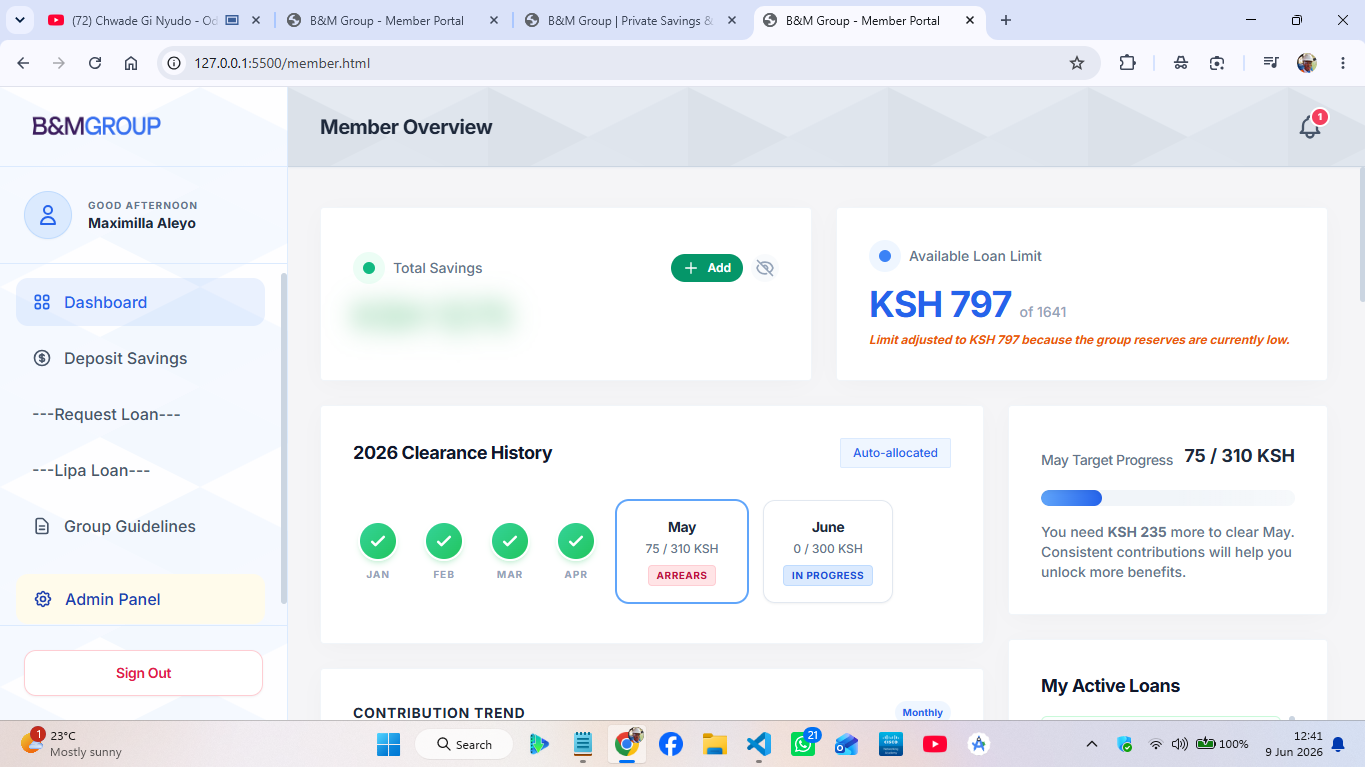
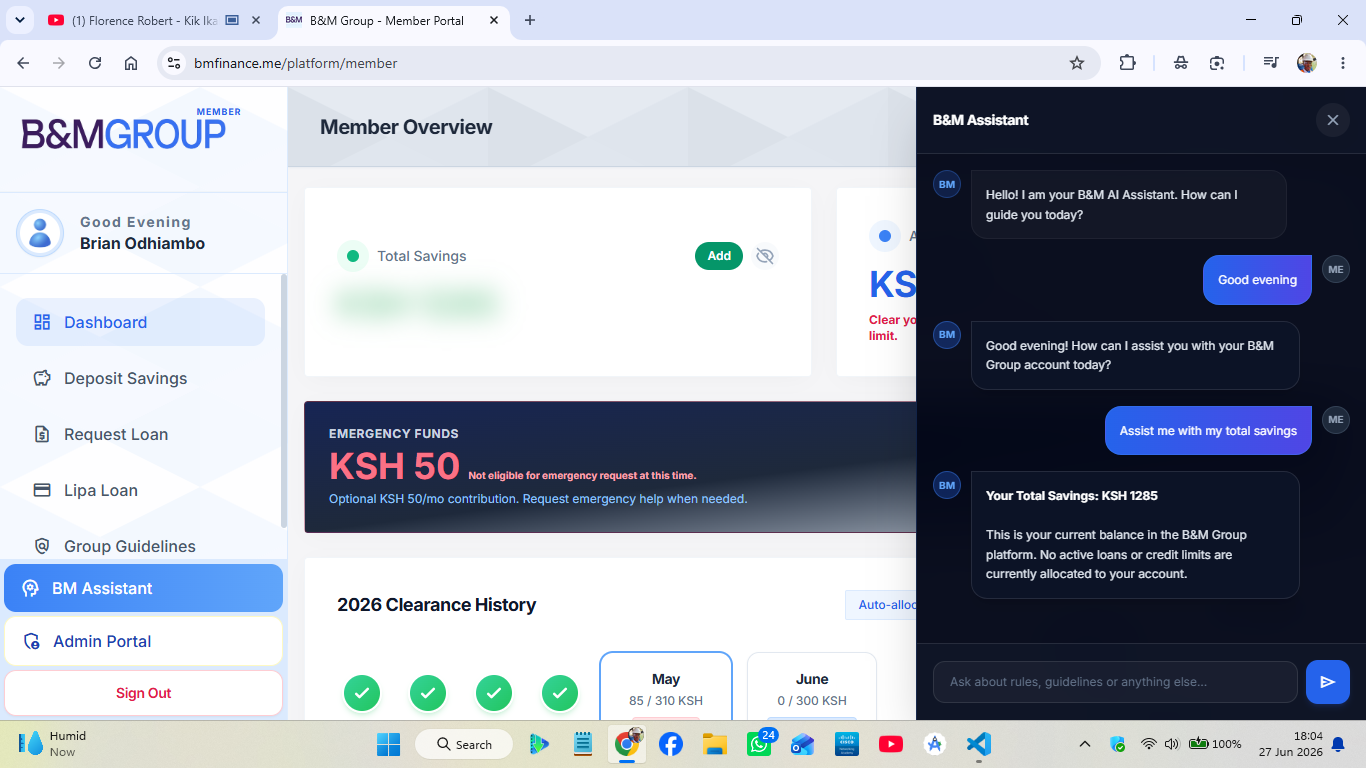
update

diff --git a/index.html b/index.html
@@ -96,7 +96,7 @@
                 <a href="/coms/contact" class="mobile-link block px-4 py-3 rounded-lg text-base font-semibold text-slate-700 hover:text-blue-700 hover:bg-blue-50 transition-colors">Contact</a>
                 <div class="pt-4 mt-2 border-t border-slate-100 flex justify-center">
                     <div class="inline-flex items-center gap-2 px-4 py-4 bg-slate-100 border border-slate-200 rounded-full text-xs font-bold text-slate-500 uppercase tracking-wider">
-                        <svg class="hhidden w-4 h-4" fill="none" stroke="currentColor" viewBox="0 0 24 24"><path stroke-linecap="round" stroke-linejoin="round" stroke-width="2" d="M12 15v2m-6 4h12a2 2 0 002-2v-6a2 2 0 00-2-2H6a2 2 0 00-2 2v6a2 2 0 002 2zm10-10V7a4 4 0 00-8 0v4h8z"></path></svg>
+                        <svg class="hidden w-4 h-4" fill="none" stroke="currentColor" viewBox="0 0 24 24"><path stroke-linecap="round" stroke-linejoin="round" stroke-width="2" d="M12 15v2m-6 4h12a2 2 0 002-2v-6a2 2 0 00-2-2H6a2 2 0 00-2 2v6a2 2 0 002 2zm10-10V7a4 4 0 00-8 0v4h8z"></path></svg>
                         <a href="/auth/login" class="text-xs font-bold text-slate-500 uppercase tracking-wider">Sign In (Members Only)</a>
                     </div>
                 </div>
